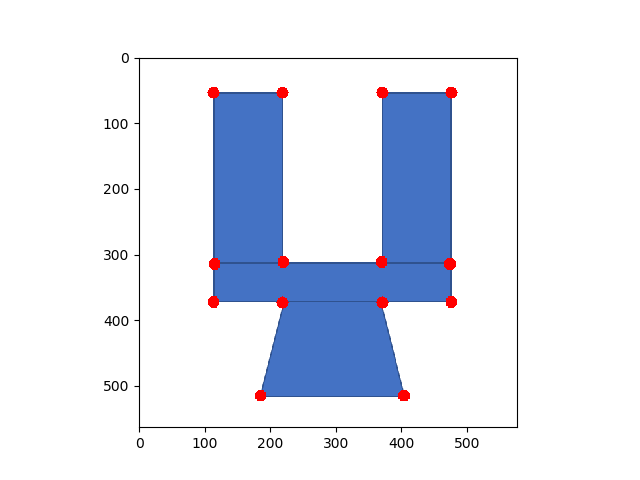
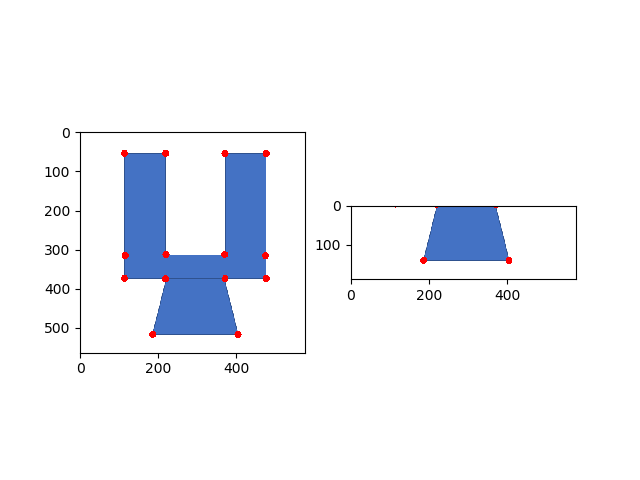
update README.md

diff --git a/src/detect_test1.py b/src/detect_test1.py
@@ -2,20 +2,32 @@ import numpy as np
 import cv2 as cv
 from matplotlib import pyplot as plt
 
+
+def detect_corners(img, gray):
+    corners = cv.goodFeaturesToTrack(gray, 25, 0.01, 10)
+    corners = np.int0(corners)
+    corners = np.squeeze(corners)
+    # 按照x坐标排序
+    sort_corners = corners[np.argsort(corners[:, 0])]
+    print(sort_corners.shape, sort_corners)
+    for i in sort_corners:
+        x, y = i.ravel()
+        cv.circle(img, (x, y), 9, (0, 0, 255), -1)
+    print(f'第一条边和第四条边之间的距离为{sort_corners[0, 0] - sort_corners[-1, 0]} pixel')
+
+
 filename = './doc/image4.png'
 img = cv.imread(filename)
 gray = cv.cvtColor(img, cv.COLOR_BGR2GRAY)
-corners = cv.goodFeaturesToTrack(gray, 25, 0.01, 10)
-corners = np.int0(corners)
-corners = np.squeeze(corners)
-# 按照x坐标排序
-sort_corners = corners[np.argsort(corners[:, 0])]
-# print(sort_corners.shape, sort_corners)
-for i in sort_corners:
-    x, y = i.ravel()
-    cv.circle(img, (x, y), 9, (0, 0, 255), -1)
+# 截取图片的下1/3
+img2 = img[img.shape[0] * 2 // 3:, :]
+gray2 = cv.cvtColor(img2, cv.COLOR_BGR2GRAY)
+detect_corners(img, gray)
+detect_corners(img2, gray2)
+
+plt.subplot(1, 2, 1)
 plt.imshow(img[:, :, ::-1])
+plt.subplot(1, 2, 2)
+plt.imshow(img2[:, :, ::-1])
 plt.savefig('./doc/demo.png')
 plt.show()
-
-print(f'第一条边和第四条边之间的距离为{sort_corners[0, 1]- sort_corners[-1, 1]} pixel')
